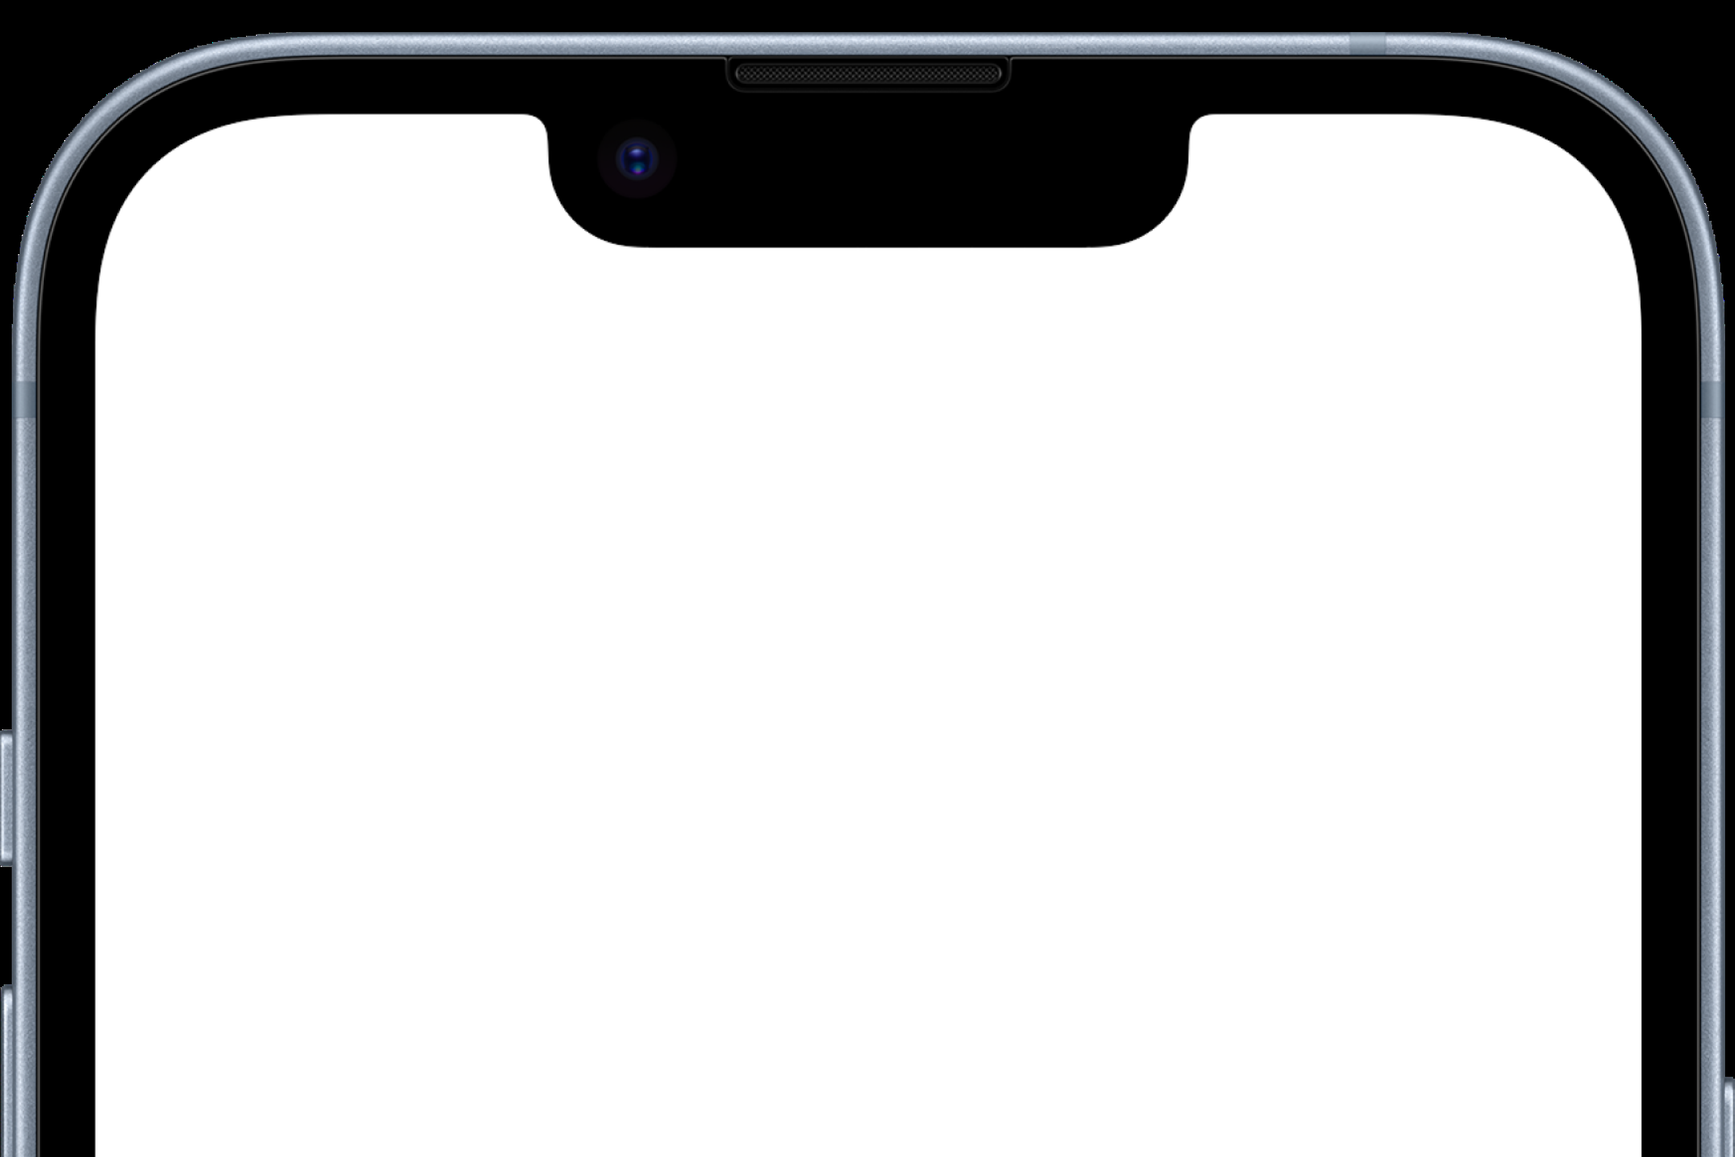
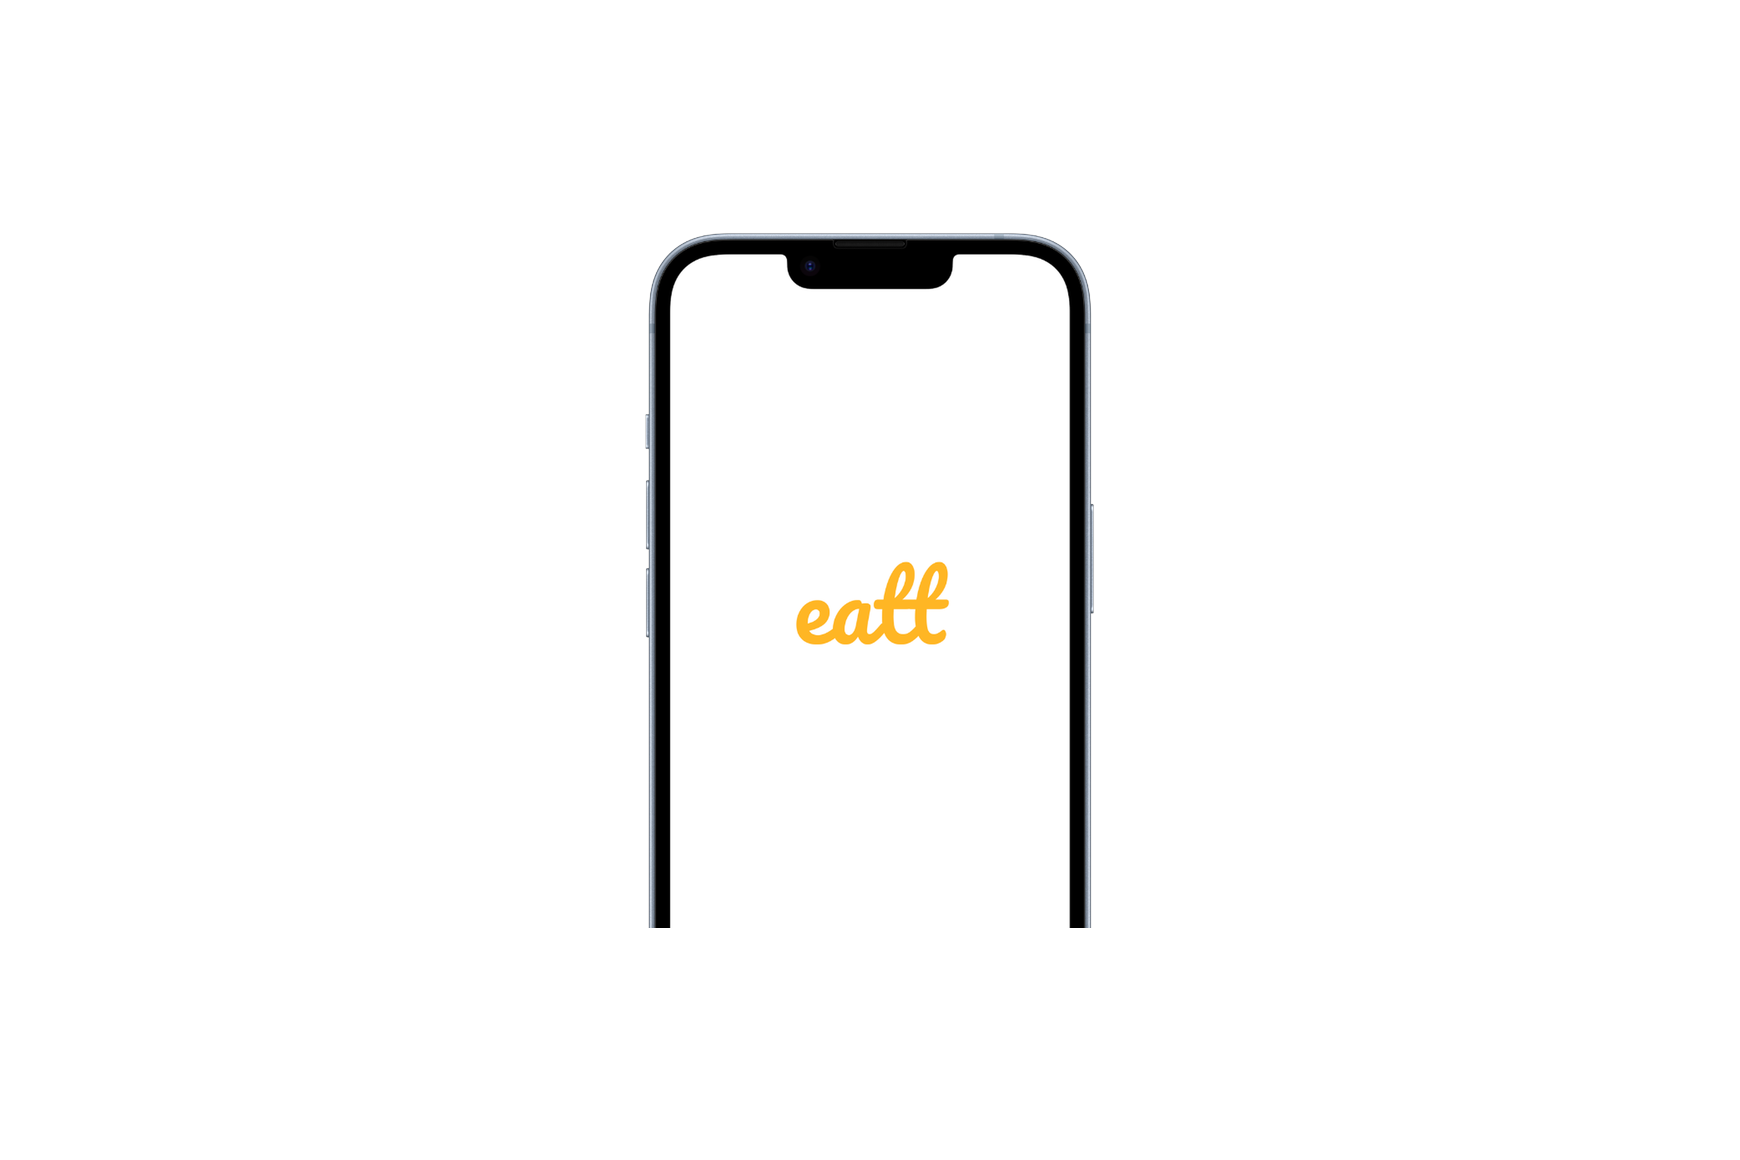
feat: replace eatt thumbnail with new mockup, scaled down and centered
Bake the 40% size reduction into the asset itself (compose the phone
at 60% scale onto a transparent 3:2 canvas) rather than relying on
the is-contain + --thumb-zoom CSS transform, which was scaling from
the wrong origin and landing the badge on the notch instead of the
blank screen area.

Changed region(s): [[0.0, 0.0, 1.0, 1.0], [0.4357, 0.4667, 0.5602, 0.5601]]

diff --git a/index.html b/index.html
@@ -178,7 +178,7 @@
         </a>
 
         <div class="case is-soon">
-          <div class="thumb" aria-hidden="true">
+          <div class="thumb is-contain" aria-hidden="true">
             <img src="images/eatt-hero.png" alt="">
             <span class="thumb-badge">Coming soon</span>
           </div>
